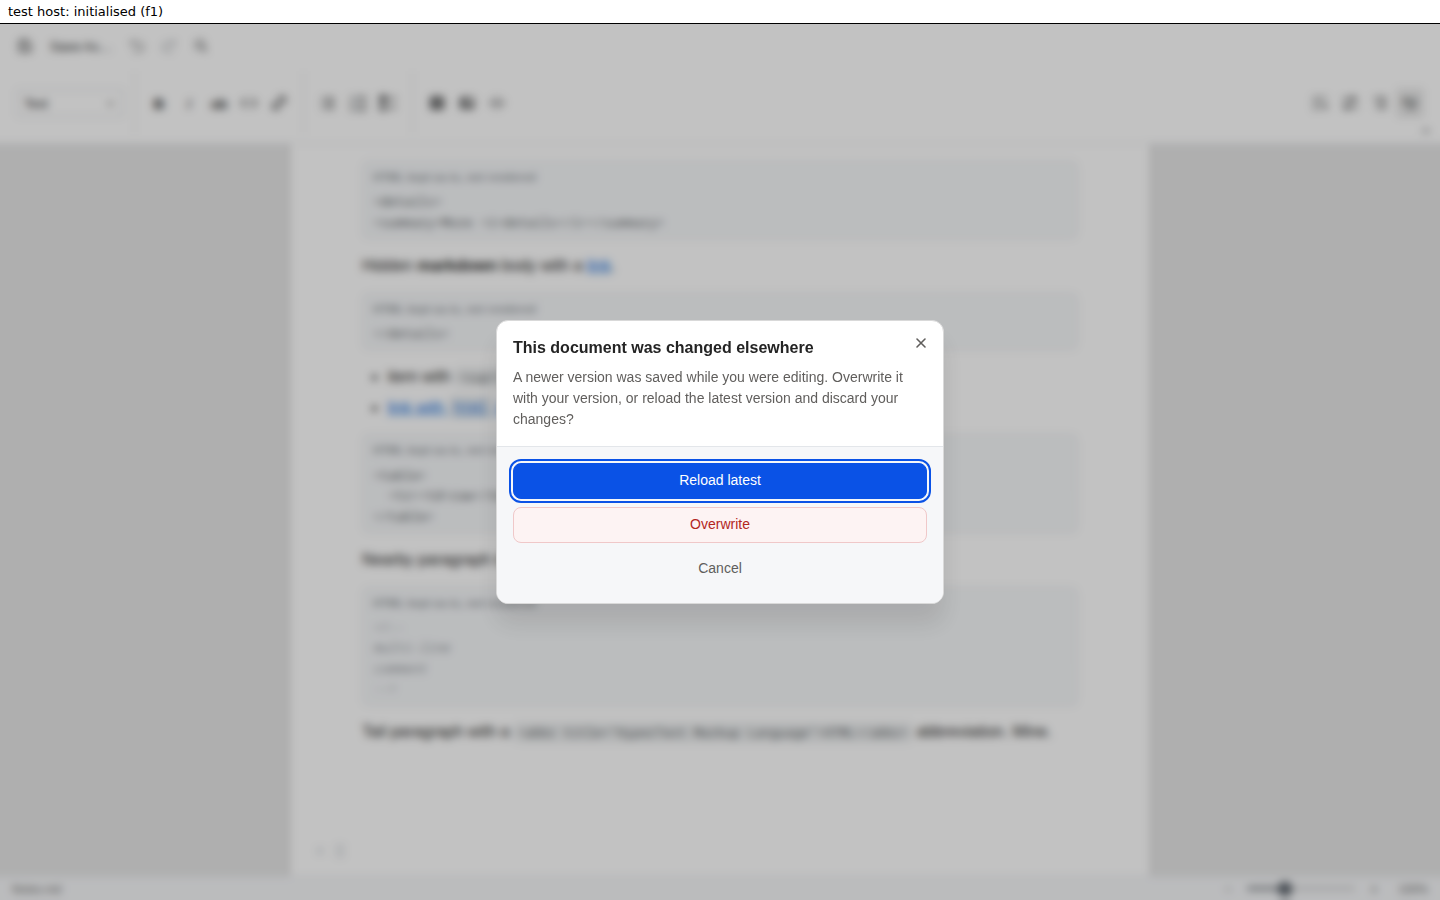
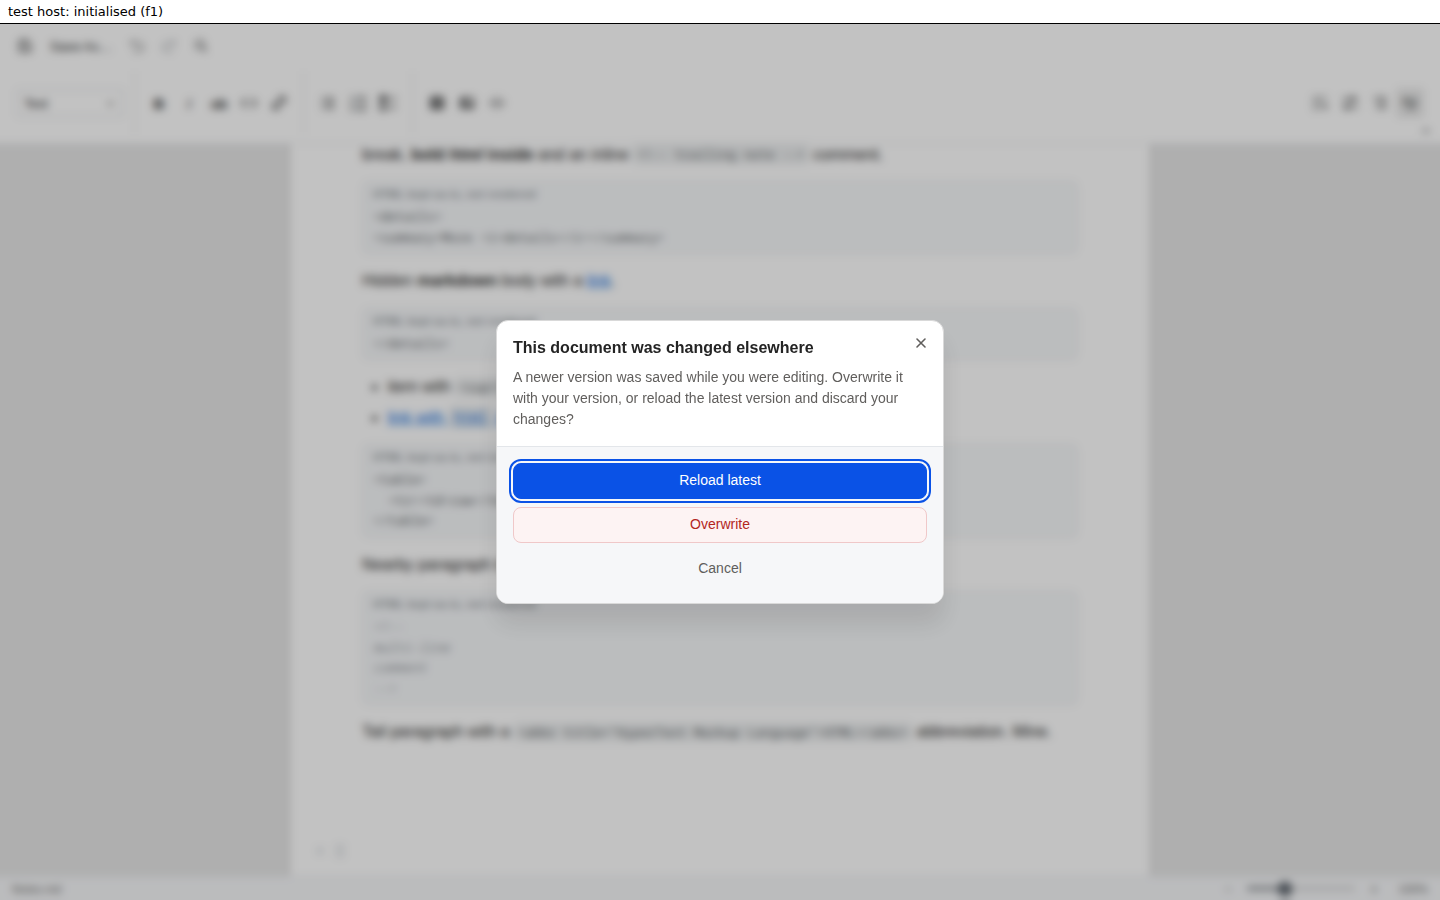
fix(markdown): raw HTML label out of flow; e2e waits for the editor selection to settle after a click
The raw HTML label sat in the flow of the block and added a variable height; it now lives in a
fixed band so a late font swap cannot move the blocks below it. The open -> save e2e was flaky
on this branch (about 1 in 5): after a click on a paragraph the editor drops the previous node
selection a frame later, and keys sent inside that frame replaced the still-selected raw HTML
block. The test now waits for the node selection to clear before typing, as a person would.

Refs: UNI-1232

diff --git a/web/e2e/markdown-web.spec.ts b/web/e2e/markdown-web.spec.ts
@@ -47,6 +47,12 @@ async function editor(frame: Frame) {
   return el
 }
 
+// the editor drops the previous node selection a frame after a click on text; keys sent inside that
+// frame (only a script is that fast) would replace the still-selected raw HTML block
+async function selectionSettled(frame: Frame) {
+  await expect(frame.locator('.doc-editor .ProseMirror-selectednode')).toHaveCount(0)
+}
+
 async function save(page: Page) {
   await page.keyboard.press('Control+s')
 }
@@ -77,6 +83,7 @@ test('markdown: open -> save byte-identical -> type -> save -> reopen -> conflic
 
   // 2. type into the nearby paragraph and save: only that line changes
   await frame.locator('.doc-editor p', { hasText: 'Nearby paragraph to edit.' }).click()
+  await selectionSettled(frame)
   await page.keyboard.press('End')
   await page.keyboard.type(' Edited on the web.')
   // the host header owns the save state: the frame draws none, but tells the host it is dirty
@@ -113,6 +120,7 @@ test('markdown: open -> save byte-identical -> type -> save -> reopen -> conflic
   // 4. conflict: someone else saved meanwhile
   await bumpRemote(page, fileId)
   await frame.locator('.doc-editor p', { hasText: 'Tail paragraph' }).click()
+  await selectionSettled(frame)
   await page.keyboard.press('End')
   await page.keyboard.type(' Mine.')
   await save(page)

diff --git a/apps/markdown/src/renderer/styles.css b/apps/markdown/src/renderer/styles.css
@@ -2339,10 +2339,23 @@ html.genoffice-popover-open .ribbon-tabs {
   cursor: default;
 }
 
+/* the label is out of flow in a fixed 22 px band: a late font swap must not move the blocks below it
+   (it did, and a click aimed at the next paragraph landed on this node instead) */
+.doc-editor .md-raw-html {
+  position: relative;
+  padding-top: 24px;
+}
+
 .doc-editor .md-raw-html::before {
   content: attr(data-md-label);
-  display: block;
-  margin-bottom: 4px;
+  position: absolute;
+  top: 5px;
+  left: 10px;
+  right: 10px;
+  overflow: hidden;
+  white-space: nowrap;
+  text-overflow: ellipsis;
+  line-height: 14px;
   font-family: var(--font-ui, inherit);
   font-size: 11px;
   font-style: normal;
